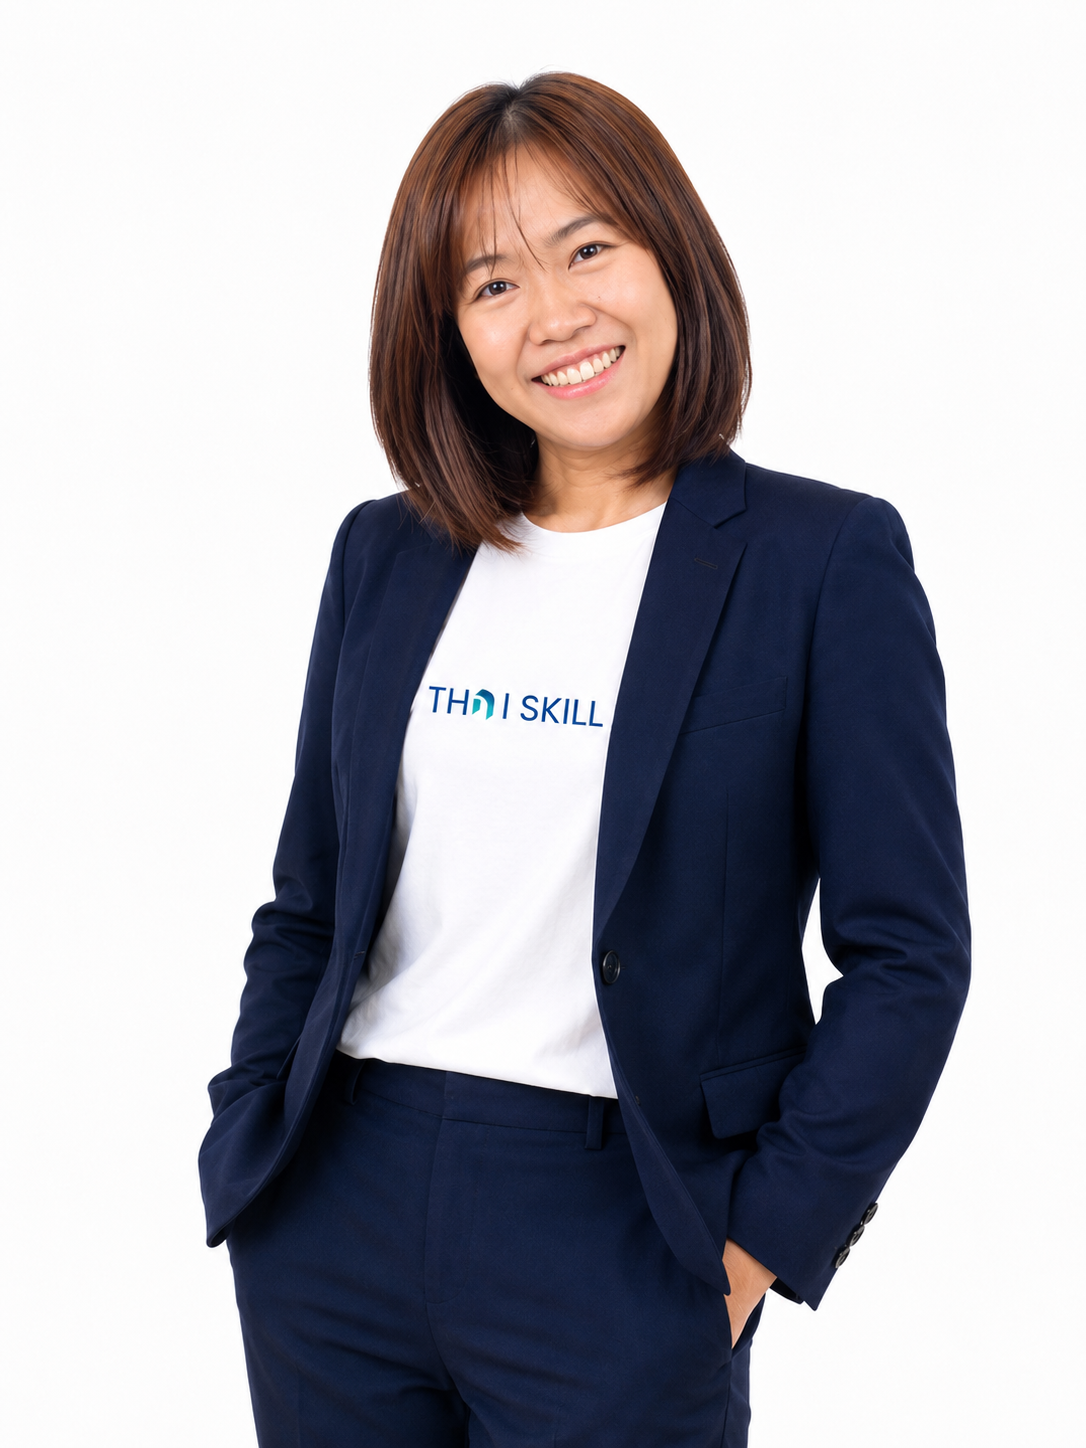
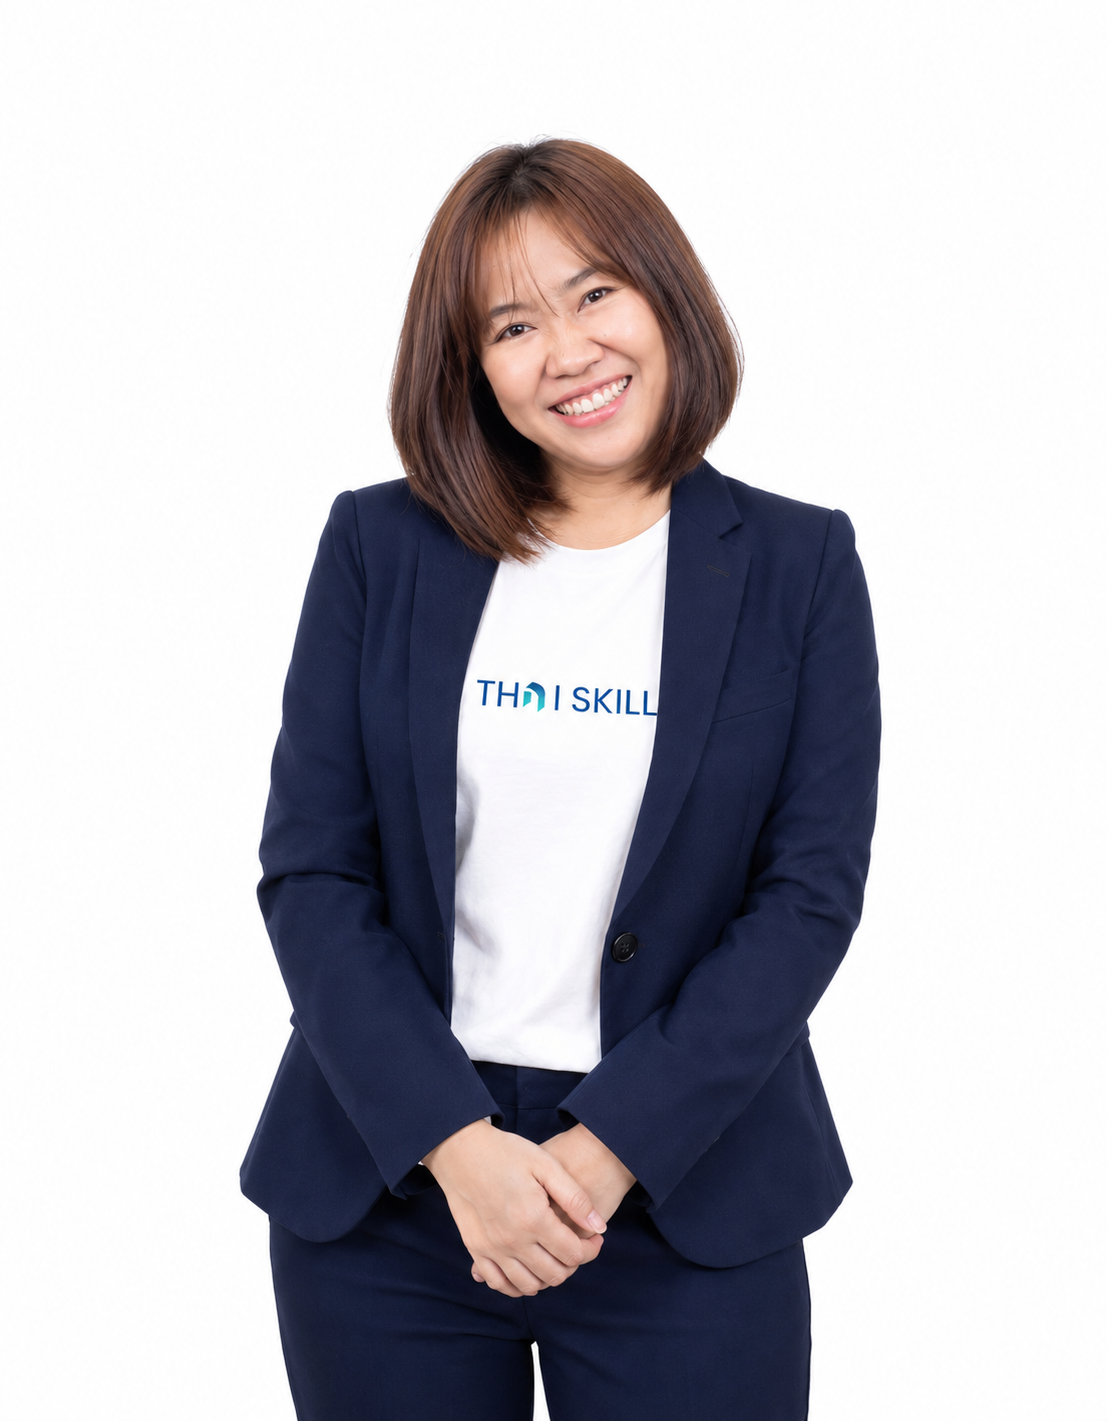
Update team photos and add member6, member7
- Replace member5.png with updated photo
- Add member6.png (new team member)
- Add member7.png (new team member)
- Reorder team: member2, member6, member4, member1, member5, member3, member7

Changed region(s): [[0.1823, 0.031, 0.9116, 1.0], [0.6381, 0.4025, 0.6685, 0.4954]]

diff --git a/components/Team.tsx b/components/Team.tsx
@@ -41,6 +41,13 @@ const TEAM: Member[] = [
     name: 'ชื่อ - นามสกุล',
     role: 'Team Member',
     tags: ['ThaiSkill'],
+    img: '/images/member6.png',
+    badge: 'TEAM',
+  },
+  {
+    name: 'ชื่อ - นามสกุล',
+    role: 'Team Member',
+    tags: ['ThaiSkill'],
     img: '/images/member4.png',
     badge: 'TEAM',
   },
@@ -63,6 +70,13 @@ const TEAM: Member[] = [
     role: 'Team Member',
     tags: ['ThaiSkill'],
     img: '/images/member3.png',
+    badge: 'TEAM',
+  },
+  {
+    name: 'ชื่อ - นามสกุล',
+    role: 'Team Member',
+    tags: ['ThaiSkill'],
+    img: '/images/member7.png',
     badge: 'TEAM',
   },
 ]
